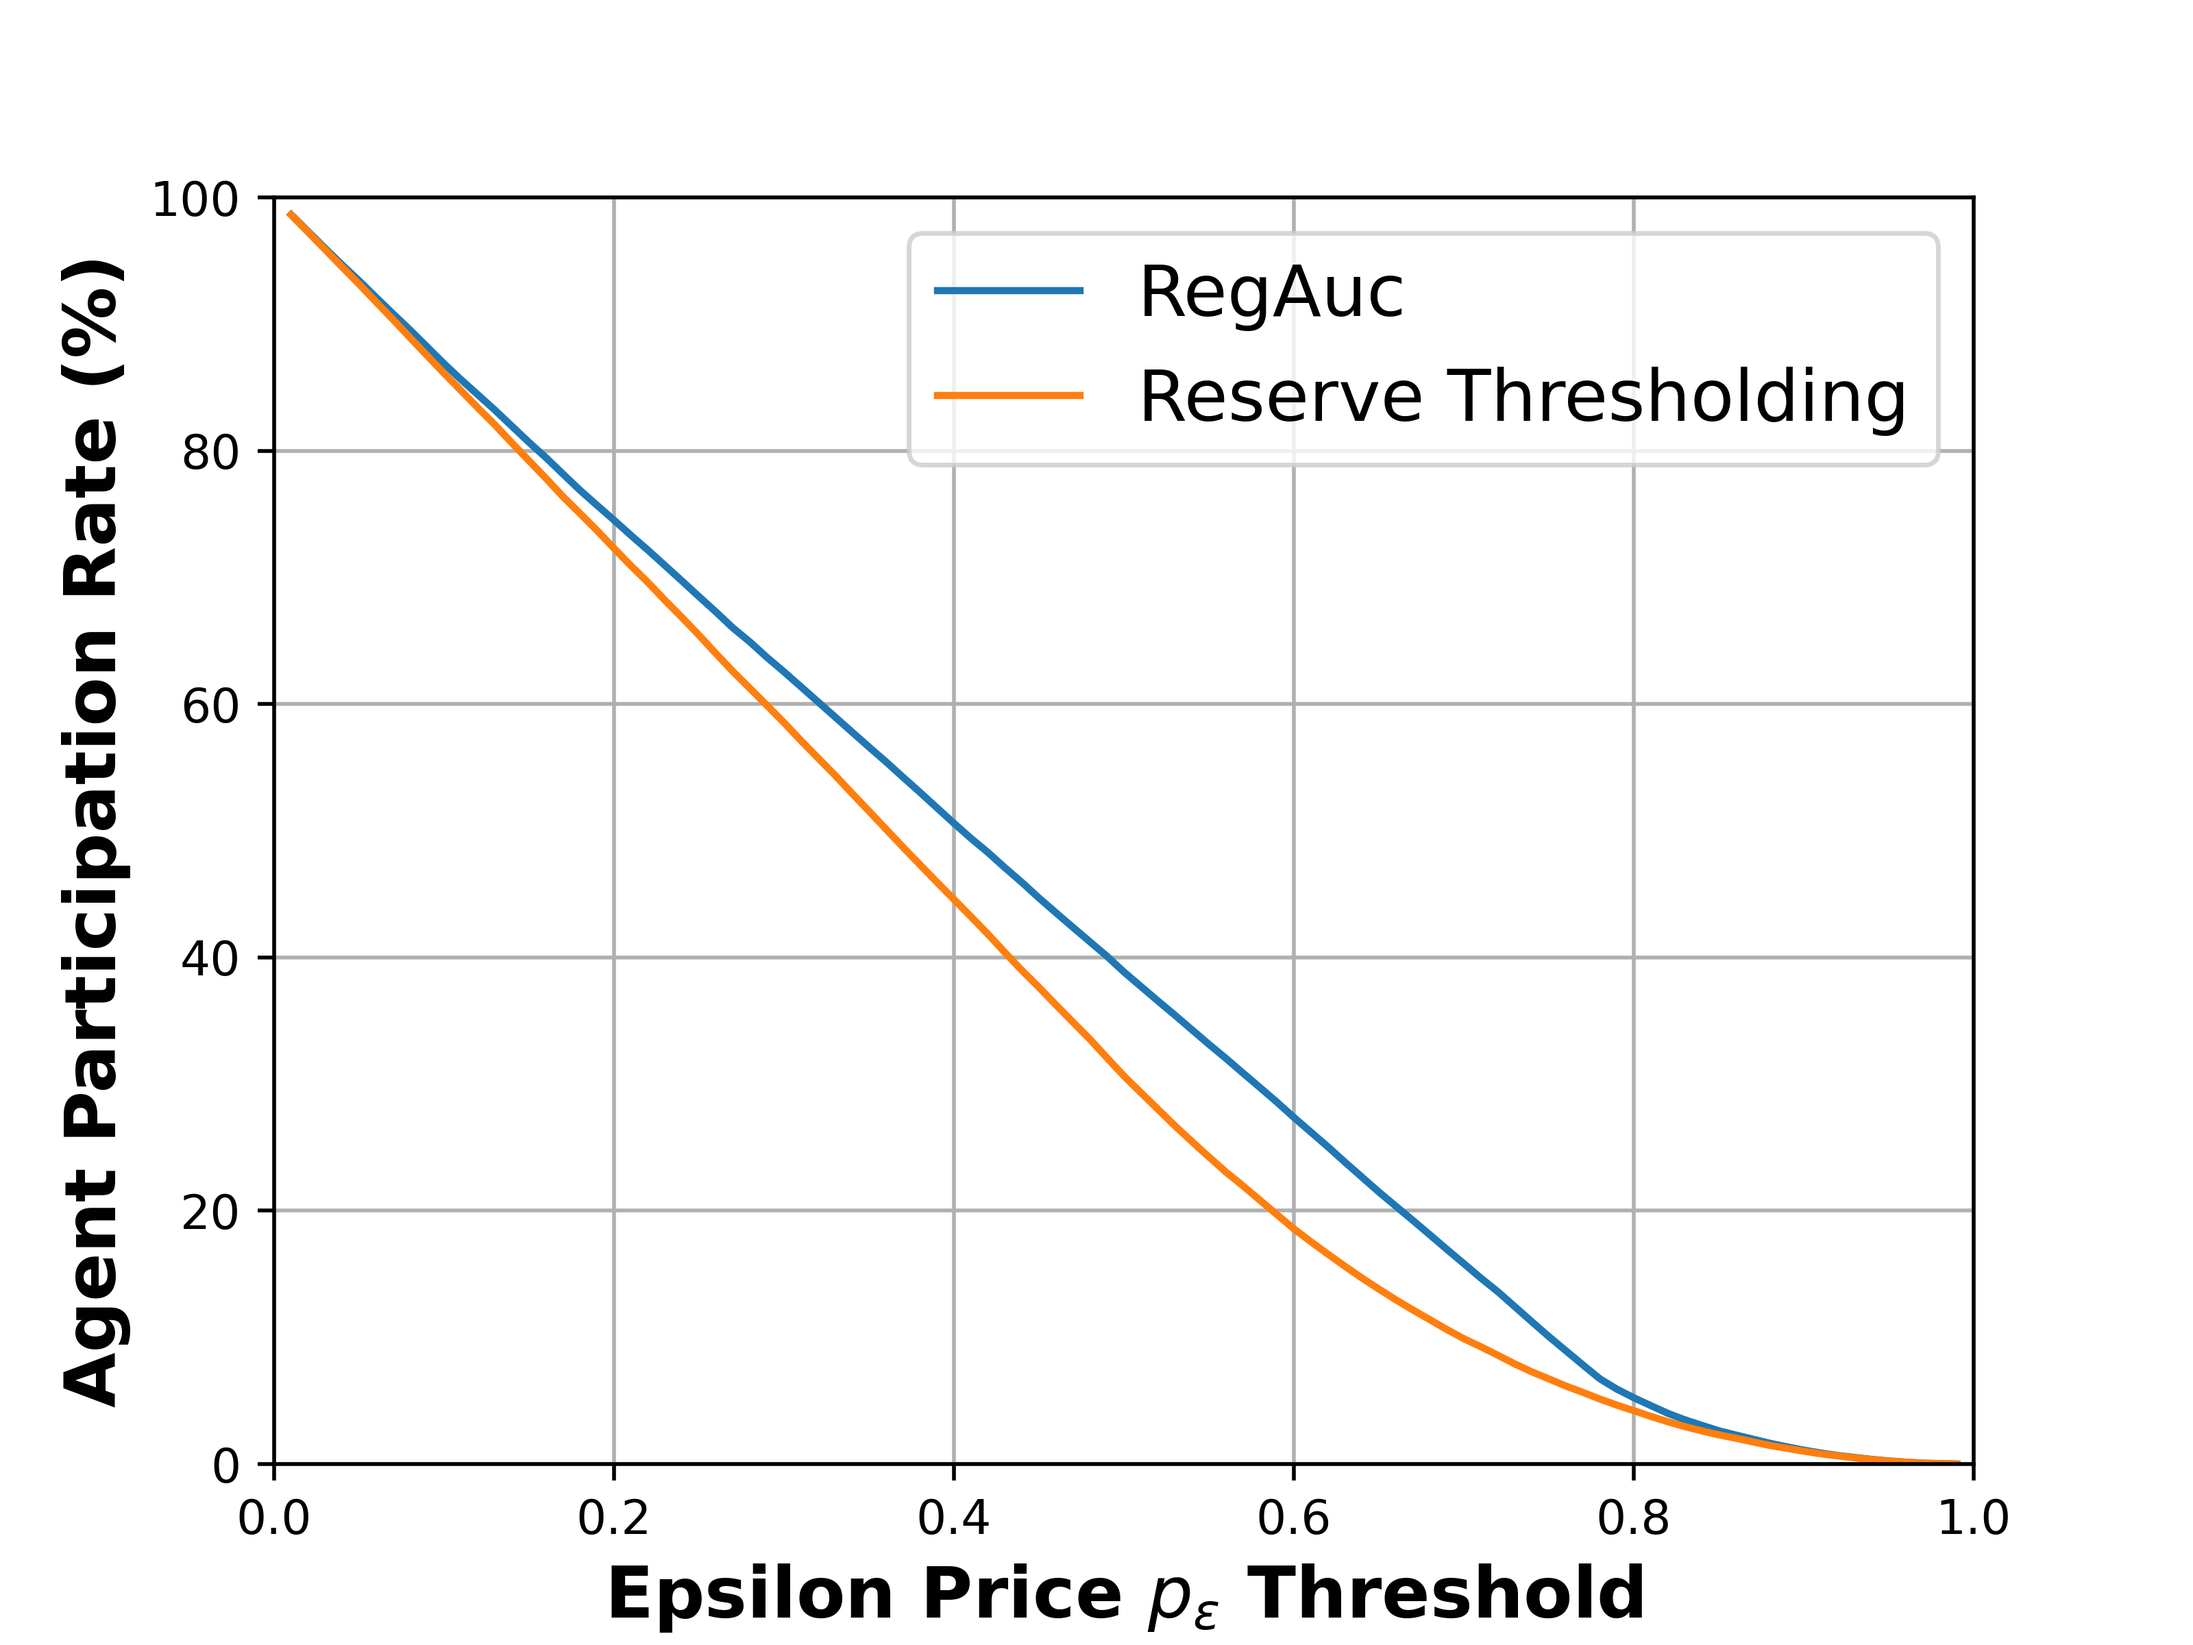
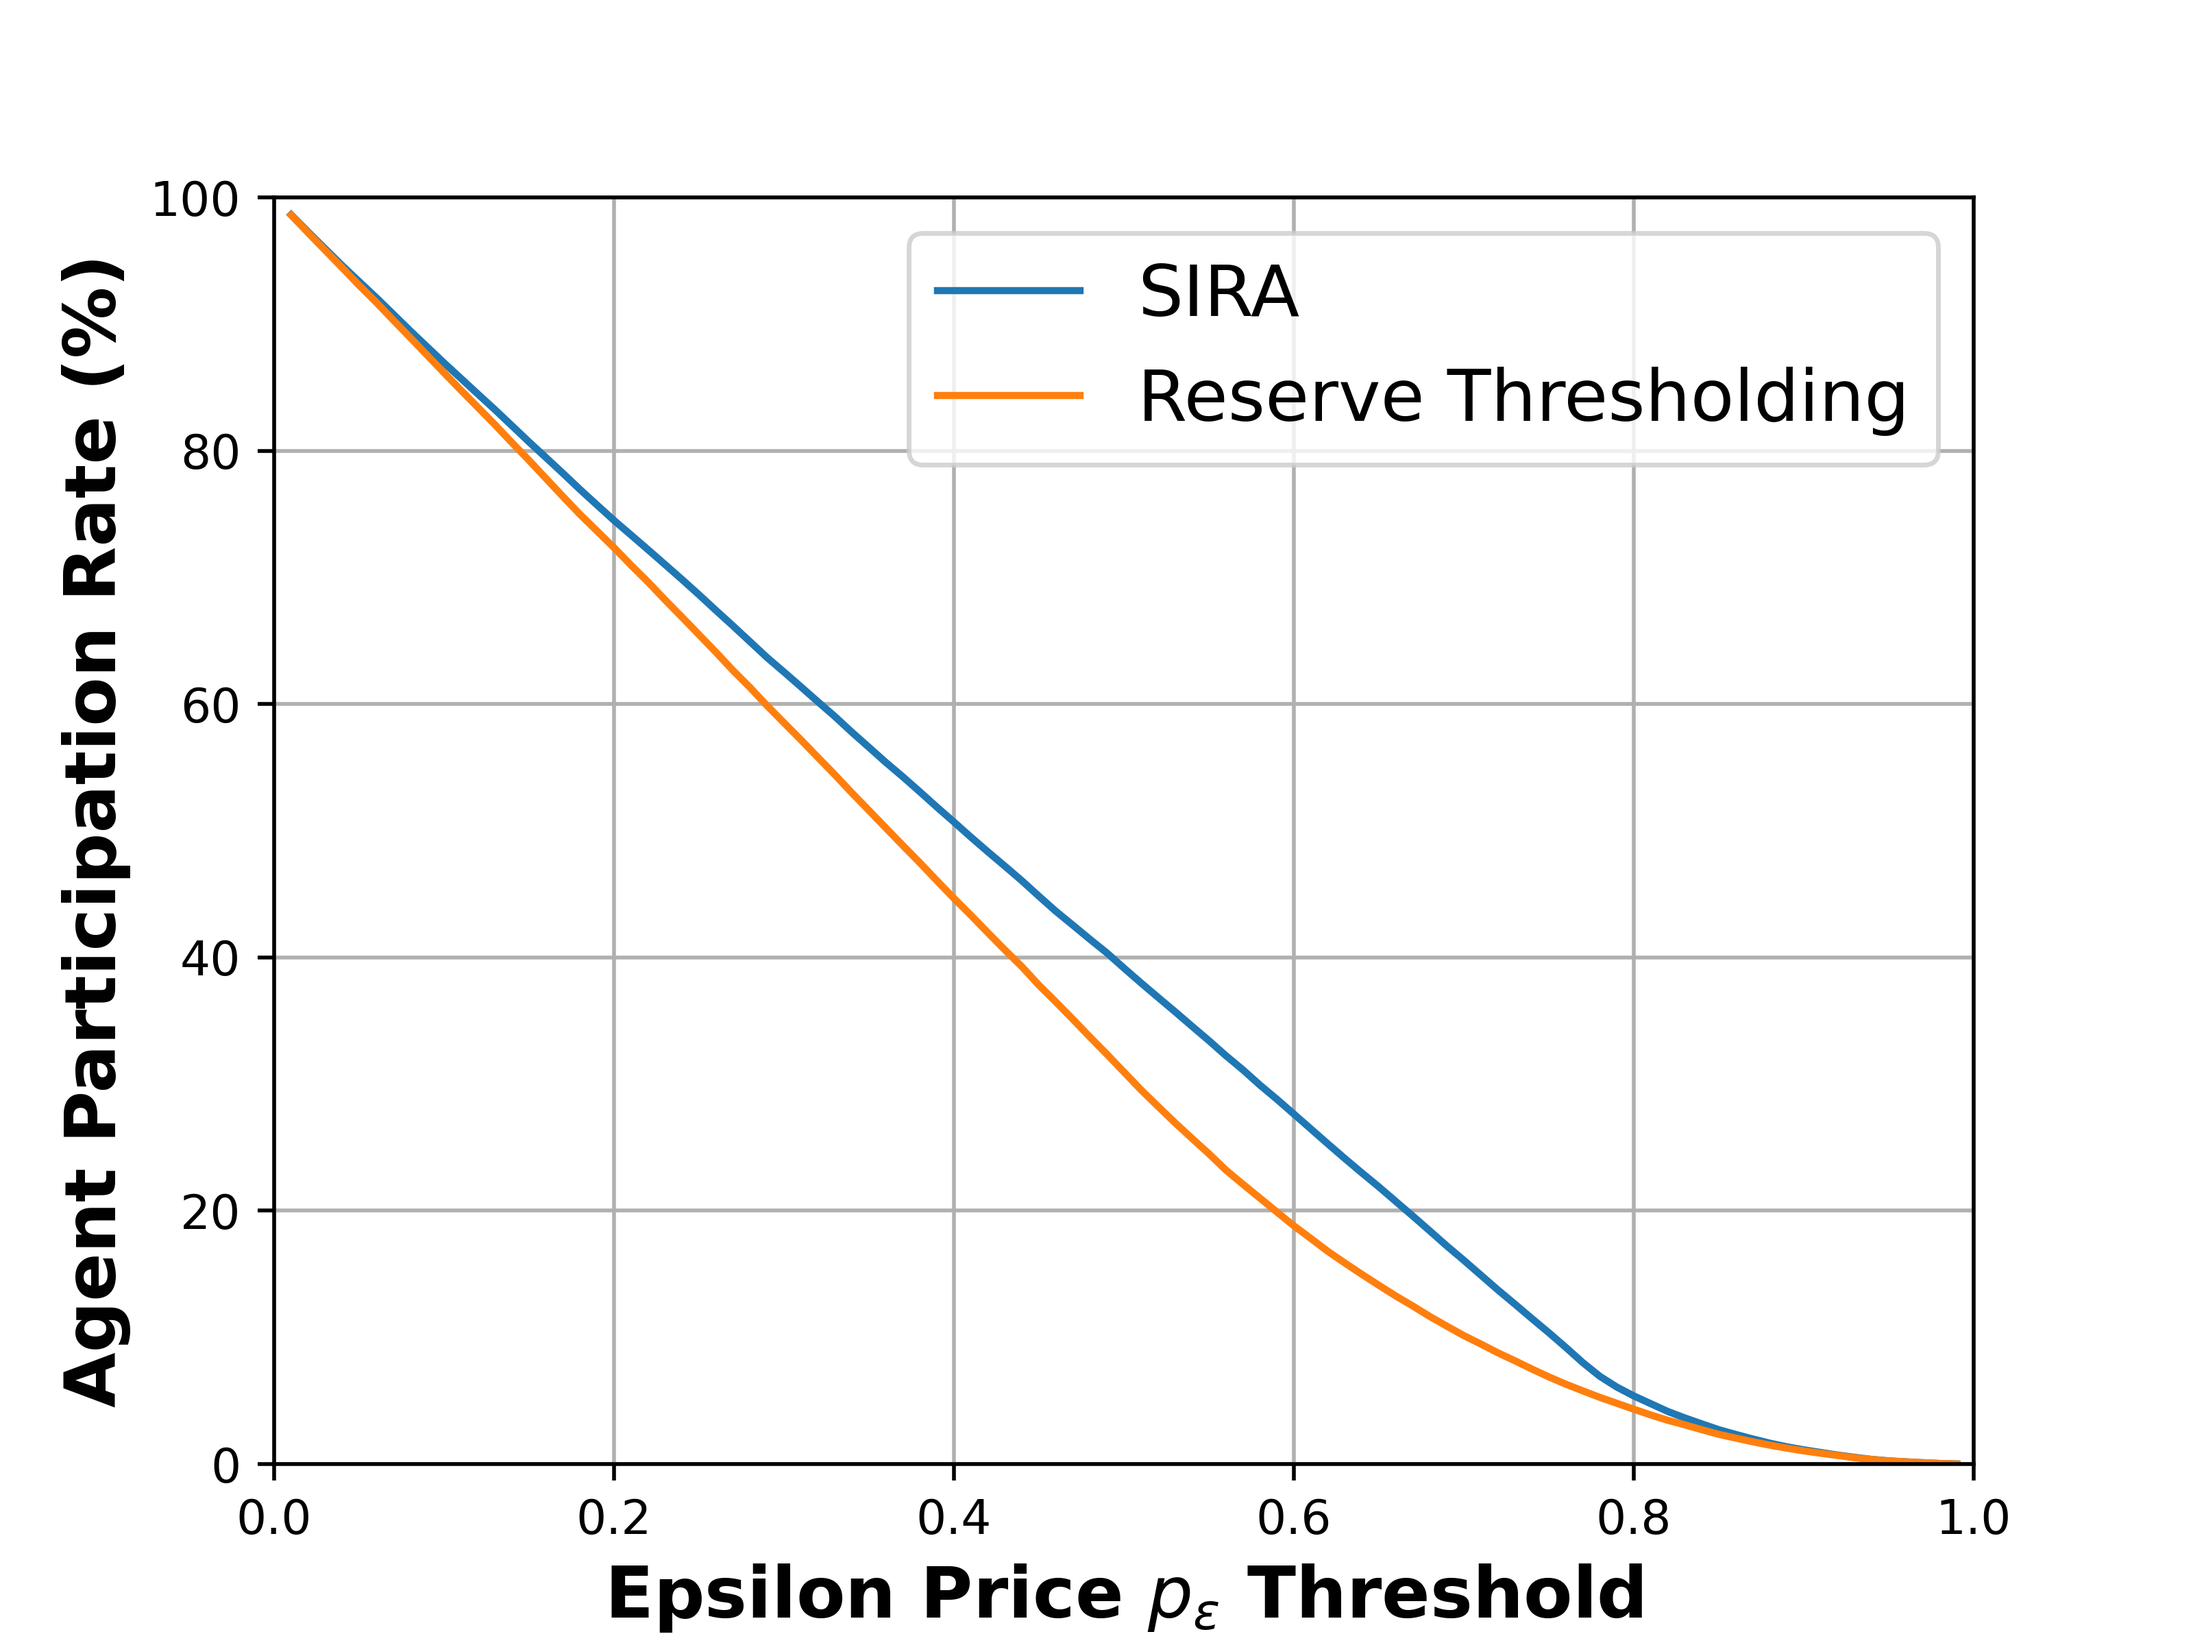
fix legend

diff --git a/simulations.py b/simulations.py
@@ -63,7 +63,7 @@ def regauc_sim(lambda_max, beta=False):
 
     lab = 'beta' if beta else 'uniform'
     plt.figure(1)
-    plt.plot(epsilons, ra_rates, label='RegAuc')
+    plt.plot(epsilons, ra_rates, label='SIRA')
     plt.plot(epsilons, st_rates, label='Reserve Thresholding')
     plt.grid()
     plt.xlabel('Epsilon Price $p_\epsilon$ Threshold', fontsize="15", fontweight='bold')
@@ -76,7 +76,7 @@ def regauc_sim(lambda_max, beta=False):
     plt.show()
 
     plt.figure(2)
-    plt.plot(epsilons, ra_avgerage_bids, label='RegAuc')
+    plt.plot(epsilons, ra_avgerage_bids, label='SIRA')
     plt.plot(epsilons, st_average_bids, label='Reserve Thresholding')
     plt.grid()
     plt.xlabel('Epsilon Price $p_\epsilon$ Threshold', fontsize="15", fontweight='bold')
@@ -93,4 +93,4 @@ def regauc_sim(lambda_max, beta=False):
 
 if __name__ == '__main__':
     lam = 1/2
-    regauc_sim(lam, beta=True)
+    regauc_sim(lam, beta=False)
